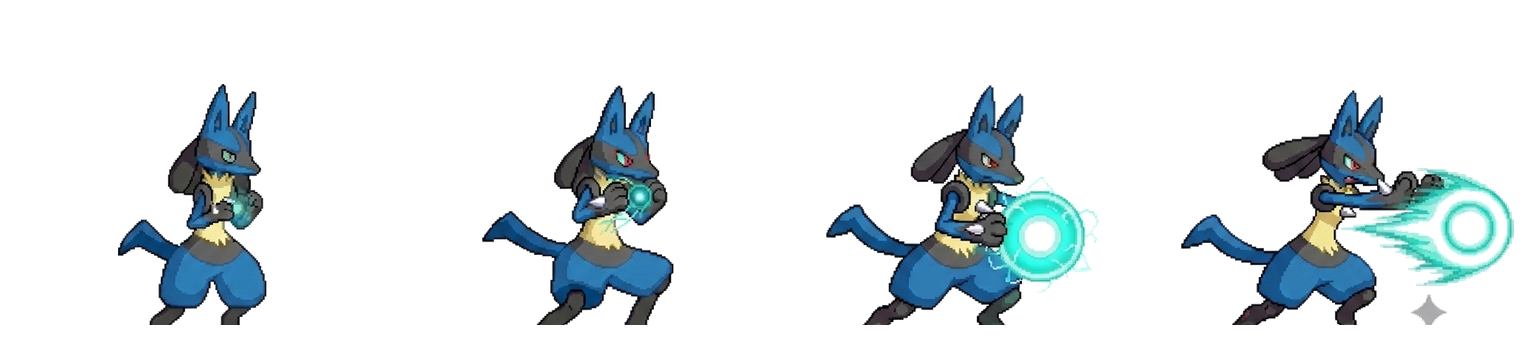
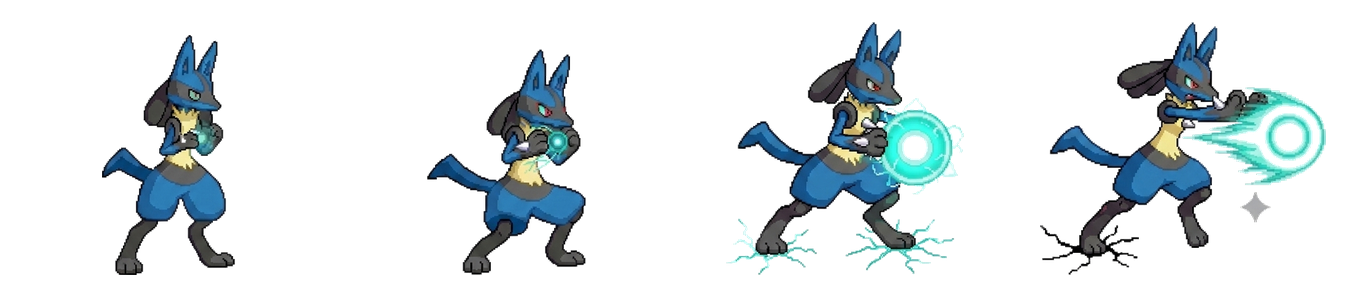
Fix Lucario feet being clipped in the redone strips
The blob detection keyed on saturation, so the box stopped at the blue legs and
the dark/near-black paws got cropped. find_frames now grows each box downward
(clamped within its quadrant, above the grid divider) to recover the feet. Both
Aura Sphere and Flash Cannon strips now include full paws; cells re-measured to
cw~340, ch=289 and BOSS_SEQ updated.

diff --git a/sparkrunmath.html b/sparkrunmath.html
@@ -159,8 +159,8 @@ const BOSS_SEQ = {
   'gyara_waterfall.png':  { file:'gyara_seq_wf.png', cw:510, ch:510 },
   'gyara_icefang.png':    { file:'gyara_seq_if.png', cw:445, ch:247 },
   // Lucario move strips (4-frame sequences extracted from the supplied sheets)
-  'luca_aurasphere.png':  { file:'luca_seq_as.png', cw:385, ch:339 },
-  'luca_flashcannon.png': { file:'luca_seq_fc.png', cw:389, ch:339 },
+  'luca_aurasphere.png':  { file:'luca_seq_as.png', cw:338, ch:289 },
+  'luca_flashcannon.png': { file:'luca_seq_fc.png', cw:342, ch:289 },
   'luca_dragonpulse.png': { file:'luca_seq_dp.png', cw:675, ch:362 },
   'luca_vacuumwave.png':  { file:'luca_seq_vw.png', cw:417, ch:396 },
   // Venusaur move strips (4-frame sequences; white-bg sheets via tools/extract_venusaur.py)

diff --git a/tools/extract_lucario.py b/tools/extract_lucario.py
@@ -45,7 +45,10 @@ def sat_val(a):
     return (mx - mn), mx           # saturation (chroma), value
 
 def sprite_blobs(a):
-    """Bounding boxes of the 4 sprites (biggest saturated blobs)."""
+    """Bounding boxes of the 4 sprites (biggest *saturated* blobs). Saturation cleanly
+    separates the 4 cells (the white sheet + dark grid lines aren't saturated, and the
+    bright FX won't bridge across a divider). It does stop at the blue legs though, so
+    the boxes are grown down in find_frames to recover the dark feet."""
     sat, _ = sat_val(a)
     m = ndimage.binary_dilation(sat > 55, iterations=14)   # merge body+FX per cell
     lab, n = ndimage.label(m)
@@ -60,11 +63,21 @@ def sprite_blobs(a):
             break
     return boxes
 
+FEET_PAD = 95          # grow each box down this far to recover Lucario's dark feet/paws
+
 def find_frames(a):
-    """Sprite blob bboxes in reading order (TL, TR, BL, BR)."""
+    """Sprite blob bboxes in reading order (TL, TR, BL, BR), each grown DOWNWARD to
+    include the dark feet — clamped within the cell's own quadrant so the growth never
+    crosses the grid divider into the cell below."""
+    H, W = a.shape[:2]
     boxes = sprite_blobs(a)
     boxes.sort(key=lambda b: (b[1] + b[3]) / 2)
-    return sorted(boxes[:2], key=lambda b: b[0]) + sorted(boxes[2:], key=lambda b: b[0])
+    ordered = sorted(boxes[:2], key=lambda b: b[0]) + sorted(boxes[2:], key=lambda b: b[0])
+    grown = []
+    for x0, y0, x1, y1 in ordered:
+        qbot = (H // 2) if (y0 + y1) / 2 < H / 2 else H    # bottom of this box's quadrant
+        grown.append((x0, y0, x1, min(qbot - 8, y1 + FEET_PAD)))   # reach for the paws, stay above the divider
+    return grown
 
 def cutout(a, box, pad=10):
     """Tight cutout of one sprite: pad the blob bbox, edge-flood-fill the white bg
